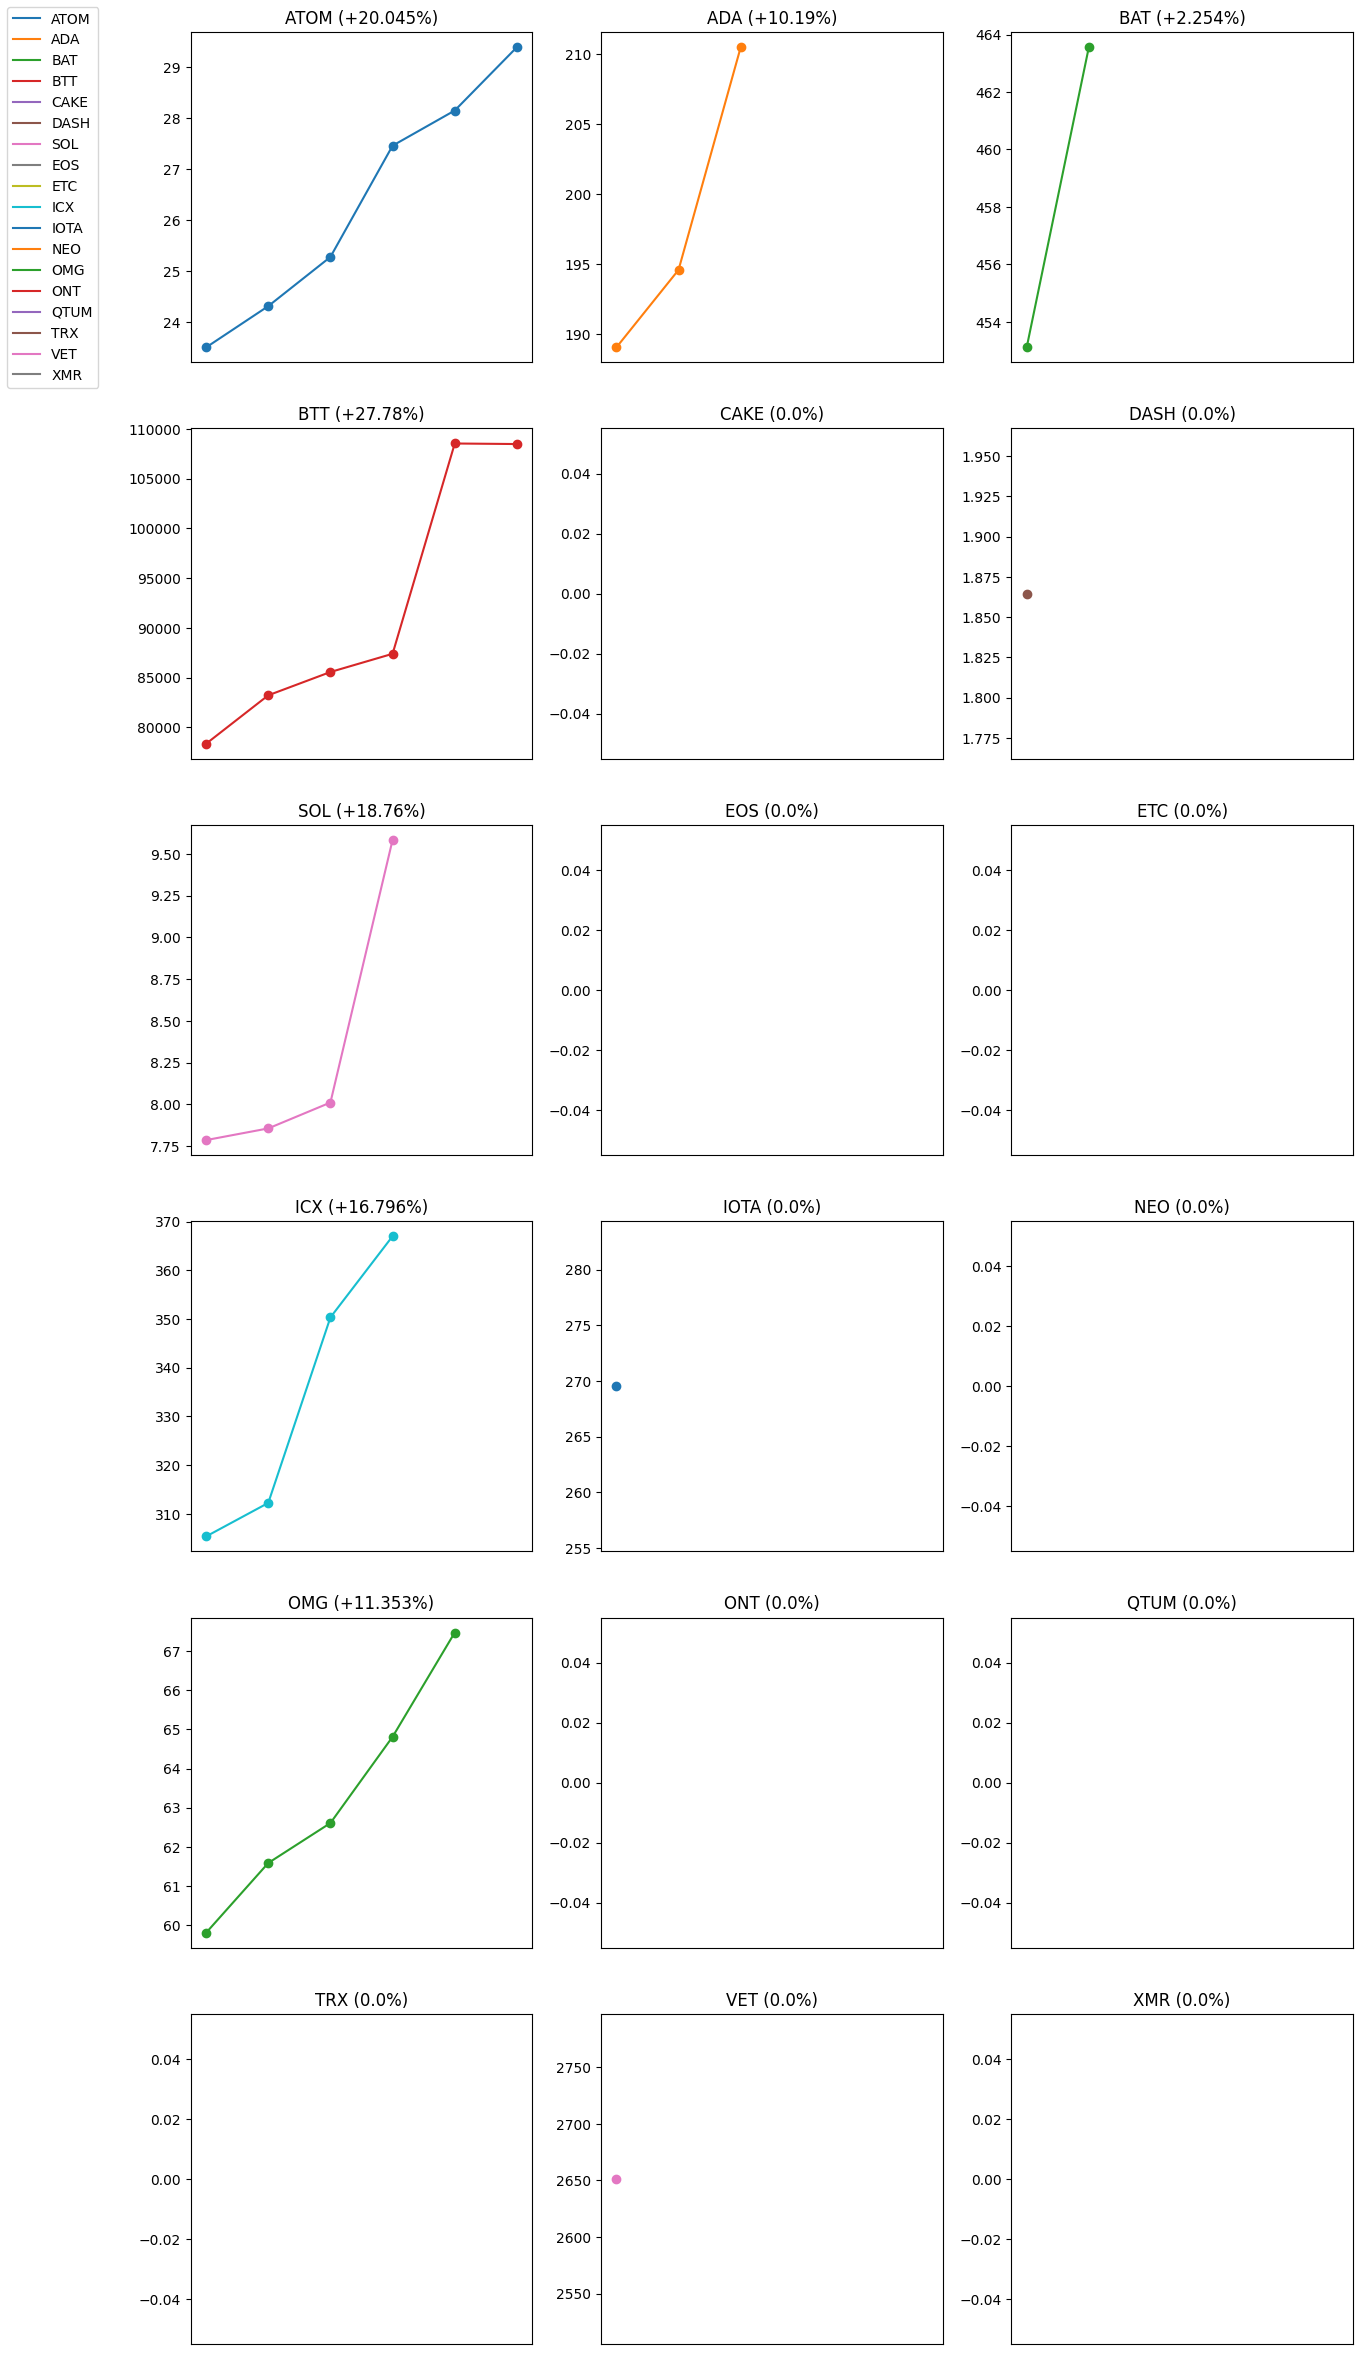
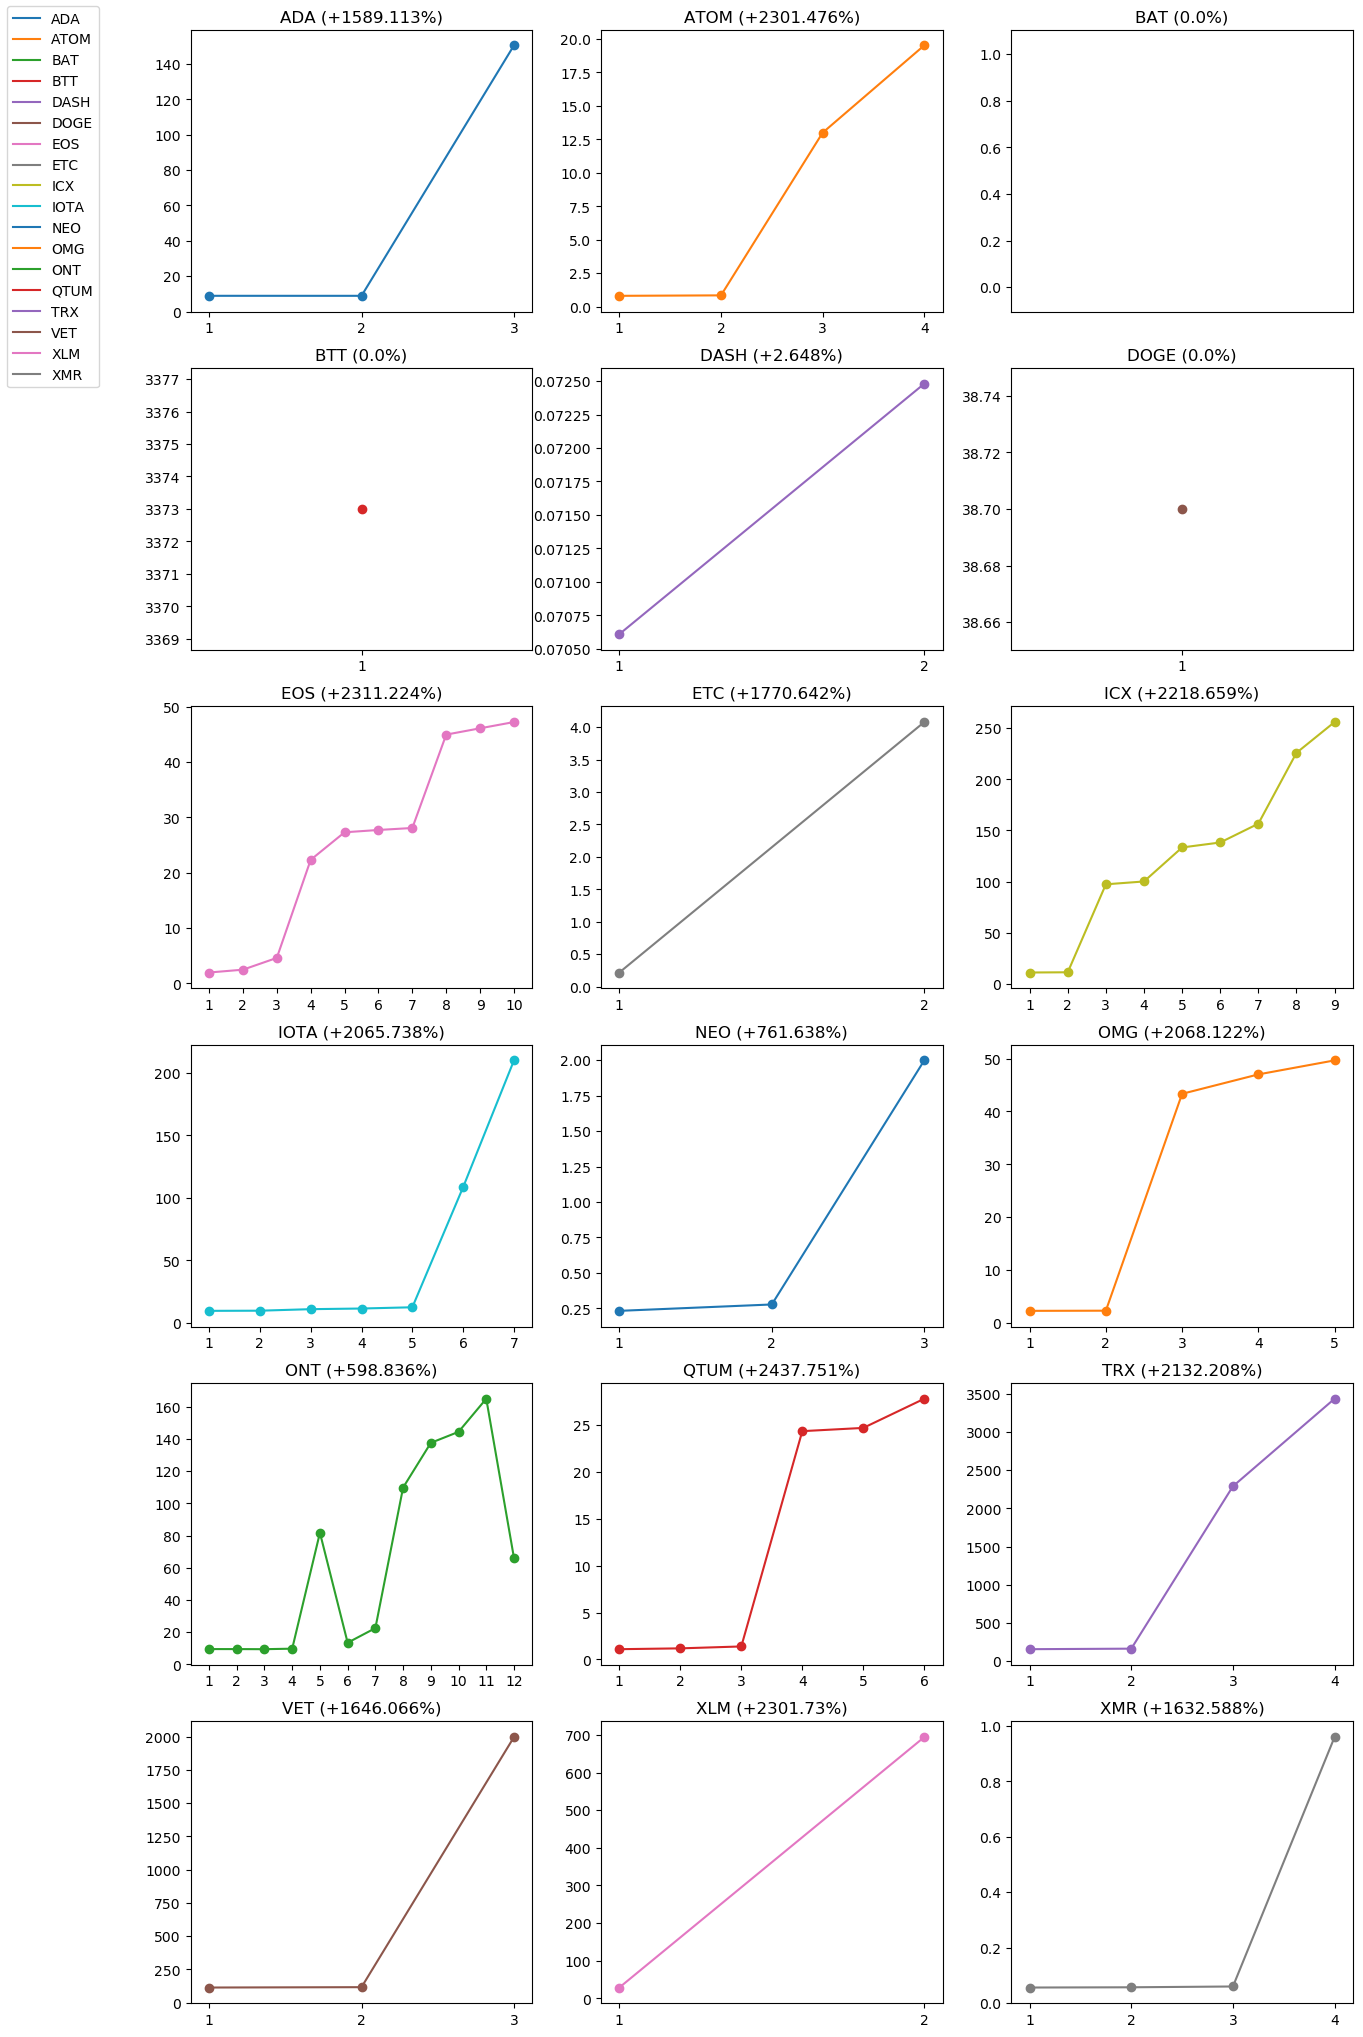
Fixed summary message and chartv image in README

diff --git a/README.md b/README.md
@@ -41,7 +41,8 @@ The output can be sent to an external service. It detectes the APPRISE file in t
   <img src = "graph.example.png">
 </p>
 
-
+Summary sent as message:
+```
 ADA: 8.91 -> 150.5 (+1589.113%)
 ATOM: 0.813 -> 19.524 (+2301.476%)
 BAT: N.A.
@@ -60,6 +61,7 @@ TRX: 154.0 -> 3437.6 (+2132.208%)
 VET: 114.4 -> 1997.5 (+1646.066%)
 XLM: 28.9 -> 694.1 (+2301.73%)
 XMR: 0.05542 -> 0.9602 (+1632.588%)
+```
 
 **Note** : The data shown are not from your binance account. This program is a tool for [Binance Trade Bot] aimed to analize the bot behaviours since the last reset.
 
